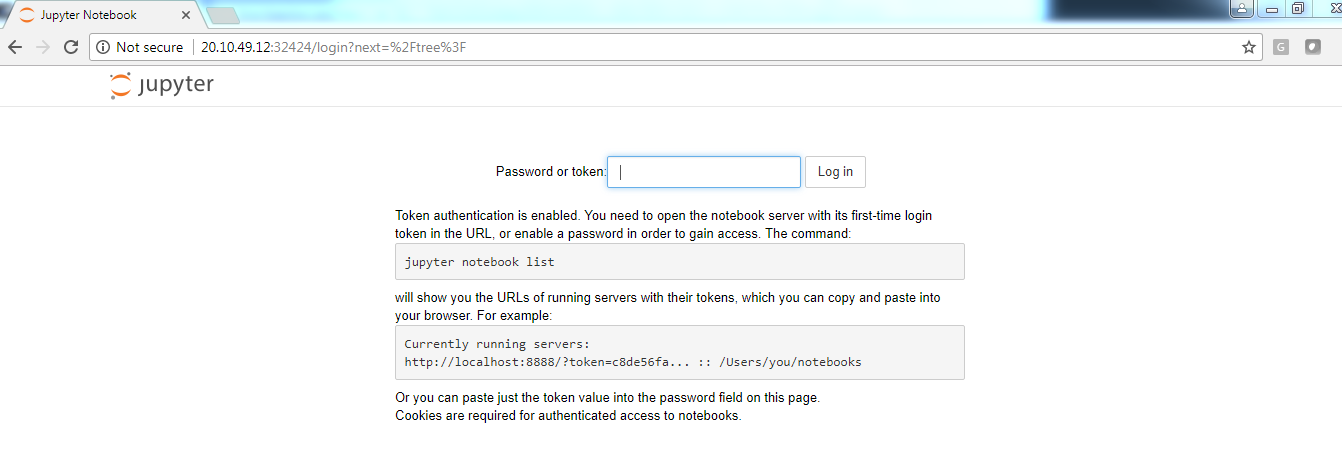
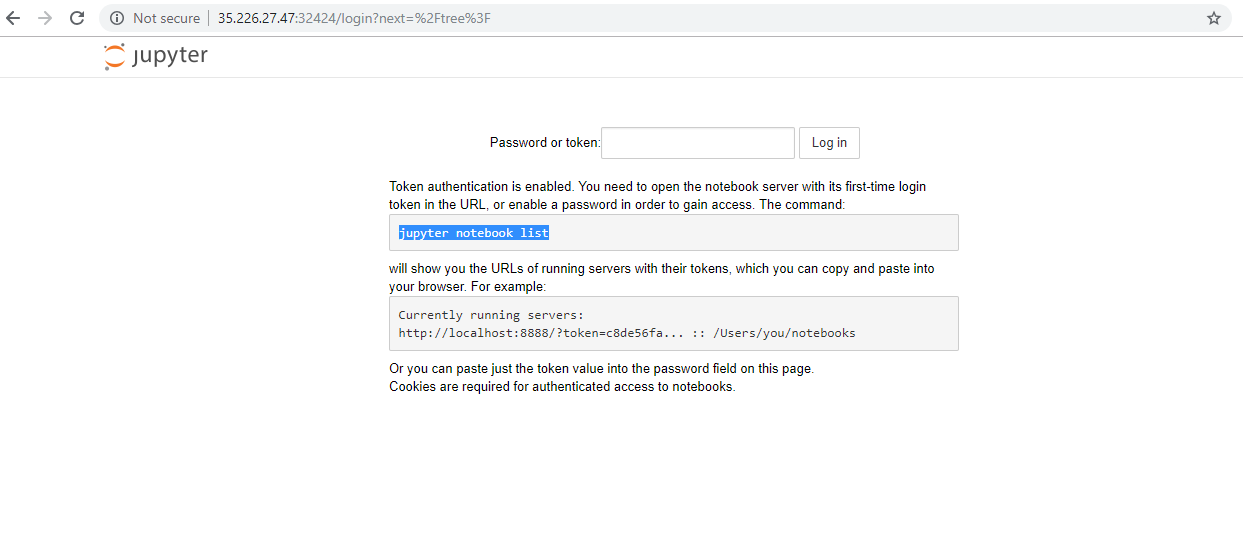
Update jupyter
for 0.8 release with cstor

diff --git a/docs/jupyter.md b/docs/jupyter.md
@@ -11,56 +11,146 @@ the storage.
 Run Jupyter Pod with OpenEBS Storage
 ------------------------------------
 
-Use OpenEBS as persistent storage for the jupyter pod by selecting an OpenEBS storage class in the persistent volume claim. A sample jupyter pod yaml (with container attributes and pvc details) is available in the OpenEBS git repository (which was cloned in the previous steps).
+In this example,OpenEBS cStor storage engine is used for running  Couchbase. Before starting, check the status of the cluster using the following command. 
 
 ```
-name@Master:~$ cat demo-jupyter-openebs.yaml 
-.. 
-kind: PersistentVolumeClaim 
-apiVersion: v1 
-metadata: 
-  name: jupyter-data-vol-claim 
-spec: 
-  storageClassName: openebs-jupyter
-  accessModes: 
-    - ReadWriteOnce 
-  resources: 
-    requests: 
-      storage: 5G 
-..
+kubectl get nodes
 ```
 
-Apply the jupyter pod yaml using the following command.
+The following output shows the status of the nodes in the cluster.
 
-    name@Master:~$ kubectl apply -f demo-jupyter-openebs.yaml
-    deployment "jupyter-server" created
-    persistentvolumeclaim "jupyter-data-vol-claim" created
-    service "jupyter-service" created
+```
+NAME                                         STATUS    ROLES     AGE       VERSION
+gke-ranjith-080-default-pool-8d4e3480-b50p   Ready     <none>    2d        v1.9.7-gke.11
+gke-ranjith-080-default-pool-8d4e3480-qsvn   Ready     <none>    2d        v1.9.7-gke.11
+gke-ranjith-080-default-pool-8d4e3480-rb03   Ready     <none>    2d        v1.9.7-gke.11
+
+```
+
+Also make sure that you have deployed OpenEBS in your cluster. If not deployed, you can install from [here](https://docs.openebs.io/docs/next/quickstartguide.html).
+
+You can check the status of OpenEBS pods by running following command.
+
+```
+kubectl get pod -n openebs
+```
+
+Output of above command will be similar to the following.
+
+```
+NAME                                        READY     STATUS    RESTARTS   AGE
+cstor-sparse-pool-l8oc-75464957d5-p4m4n     2/2       Running   0          1h
+cstor-sparse-pool-m7ld-87db7797c-hbsv2      2/2       Running   0          1h
+cstor-sparse-pool-md1e-944849559-7pjcf      2/2       Running   0          1h
+maya-apiserver-7bc857bb44-9w7hx             1/1       Running   0          1h
+openebs-ndm-gfk85                           1/1       Running   0          1h
+openebs-ndm-h4rt6                           1/1       Running   0          1h
+openebs-ndm-pxjcb                           1/1       Running   0          1h
+openebs-provisioner-b9fb58d6d-t475j         1/1       Running   0          1h
+openebs-snapshot-operator-bb5697c8d-7jfqd   2/2       Running   0          1h
+```
+
+Download the following file from OpenEBS repo and change the **storageClassName** under **PersistentVolumeClaim** -> ***spec*** from *openebs-jiva-default* to *openebs-cstor-sparse*. 
+
+```
+wget https://raw.githubusercontent.com/openebs/openebs/master/k8s/demo/jupyter/demo-jupyter-openebs.yaml
+```
+
+After the modification on the downloaded file, you can run following command to install the Jupyter application on cStor volume.
+
+    kubectl apply -f demo-jupyter-openebs.yaml
 
 The above command creates the following, which can be verified using the corresponding kubectl commands.
 
--   Launches a Jupyter Server, with the specified notebook file from github (kubectl get deployments)
--   Creates an OpenEBS Volume and mounts to the Jupyter Server Pod (/mnt/data) (kubectl get pvc) (kubectl get pv) (kubectl get pods)
--   Exposes the Jupyter Server to external world via the <http://>\<NodeIP\>:32424 (NodeIP is any of the nodes external IP) (kubectl get pods)
+- Launches a Jupyter Server, with the specified notebook file from github. You can run the following command to check the same.
 
-Verify that the OpenEBS storage pods, that is, the jiva controller and jiva replicas are created and the jupyter pod is running successfully using the following commands.
+  ```
+  kubectl get deployments
+  ```
 
-    name@Master:~$ kubectl get pods
-    NAME                                                             READY     STATUS    RESTARTS   AGE
-    jupyter-server-2764185079-s371g                                  1/1       Running   0          13m
-    maya-apiserver-1633167387-845fd                                  1/1       Running   0          15d
-    openebs-provisioner-1174174075-c78sj                             1/1       Running   1          15d
-    pvc-5467cfe7-a29e-11e7-b4df-000c298ff5fc-ctrl-2903536303-75h3j   1/1       Running   0          13m
-    pvc-5467cfe7-a29e-11e7-b4df-000c298ff5fc-rep-2383373508-bh0d3    1/1       Running   0          13m
-    pvc-5467cfe7-a29e-11e7-b4df-000c298ff5fc-rep-2383373508-s1kzz    1/1       Running   0          13m
+  Output of above command will be similar to the following.
 
-**Note:**
+  ```
+  NAME             DESIRED   CURRENT   UP-TO-DATE   AVAILABLE   AGE
+  jupyter-server   1         1         1            0           1m
+  ```
 
-It may take some time for the pods to start as the images must be pulled and instantiated. This is also dependent on the network speed.
+- Creates an OpenEBS Volume and mounts to the Jupyter Server Pod (/mnt/data) . You can check the PVC details by running the following command.
 
-The jupyter server dashboard can be accessed on the Kubernetes node port as in the following screen.
+  ```
+  kubectl get pvc
+  ```
 
-![image](https://raw.githubusercontent.com/openebs/openebs/master/documentation/source/_static/Jupyter.png)
+  Output of above command will be similar to the following.
+
+  ```
+  NAME                     STATUS    VOLUME                                     CAPACITY   ACCESS MODES   STORAGECLASS           AGE
+  jupyter-data-vol-claim   Bound     pvc-61c8ae2d-f879-11e8-9883-42010a8000b7   5G         RWO            openebs-cstor-sparse   2m
+  ```
+
+  Verify that the OpenEBS storage pods are created and the jupyter pod is running successfully using the following commands.
+
+  ```
+  kubectl get pods -n openebs
+  ```
+
+  Output of above command will be similar to the following.
+
+  ```
+  NAME                                                              READY     STATUS    RESTARTS   AGE
+  cstor-sparse-pool-l8oc-75464957d5-p4m4n                           2/2       Running   0          1h
+  cstor-sparse-pool-m7ld-87db7797c-hbsv2                            2/2       Running   0          1h
+  cstor-sparse-pool-md1e-944849559-7pjcf                            2/2       Running   0          1h
+  maya-apiserver-7bc857bb44-9w7hx                                   1/1       Running   0          1h
+  openebs-ndm-gfk85                                                 1/1       Running   0          1h
+  openebs-ndm-h4rt6                                                 1/1       Running   0          1h
+  openebs-ndm-pxjcb                                                 1/1       Running   0          1h
+  openebs-provisioner-b9fb58d6d-t475j                               1/1       Running   0          1h
+  openebs-snapshot-operator-bb5697c8d-7jfqd                         2/2       Running   0          1h
+  pvc-61c8ae2d-f879-11e8-9883-42010a8000b7-target-74f84b65bc64nj5   3/3       Running   1          9m
+  ```
+
+  Verify that the jupyter pod is running successfully using the following commands.
+
+  ```
+  kubectl get pods
+  ```
+
+  Output of above command will be similar to the following.
+
+  ```
+  NAME                             READY     STATUS    RESTARTS   AGE
+  jupyter-server-68d4ddc48-rtvk6   1/1       Running   0          10m
+  ```
+
+- Exposes the Jupyter Server to external world via the <http://>\<NodeIP\>:32424 . NodeIP is any of the nodes external IP. You can get the external IP using the following command.
+
+  ```
+  kubectl get nodes -o wide
+  ```
+
+  Output of above command will be similar to the following.
+
+  ```
+  NAME                                         STATUS    ROLES     AGE       VERSION         INTERNAL-IP   EXTERNAL-IP      OS-IMAGE             KERNEL-VERSION    CONTAINER-RUNTIME
+  gke-ranjith-080-default-pool-8d4e3480-b50p   Ready     <none>    2d        v1.9.7-gke.11   10.128.0.45   35.226.27.47     Ubuntu 16.04.5 LTS   4.15.0-1017-gcp   docker://17.3.2
+  gke-ranjith-080-default-pool-8d4e3480-qsvn   Ready     <none>    2d        v1.9.7-gke.11   10.128.0.43   35.239.82.64     Ubuntu 16.04.5 LTS   4.15.0-1017-gcp   docker://17.3.2
+  gke-ranjith-080-default-pool-8d4e3480-rb03   Ready     <none>    2d        v1.9.7-gke.11   10.128.0.38   35.188.181.146   Ubuntu 16.04.5 LTS   4.15.0-1017-gcp   docker://17.3.2
+  ```
+
+  Take External IP of any of the Nodes and provide in the browser. 
+
+  Example:
+
+   <http://>35.226.27.47:32424
+
+  **Note:**
+
+  It may take some time for the pods to start as the images must be pulled and instantiated. This is also dependent on the network speed.
+
+  The jupyter server dashboard can be accessed on the Kubernetes node port as in the following screen.
+
+![image](/docs/assets/Jupyter.png)
 
 <!-- Hotjar Tracking Code for https://docs.openebs.io -->
 <script>
